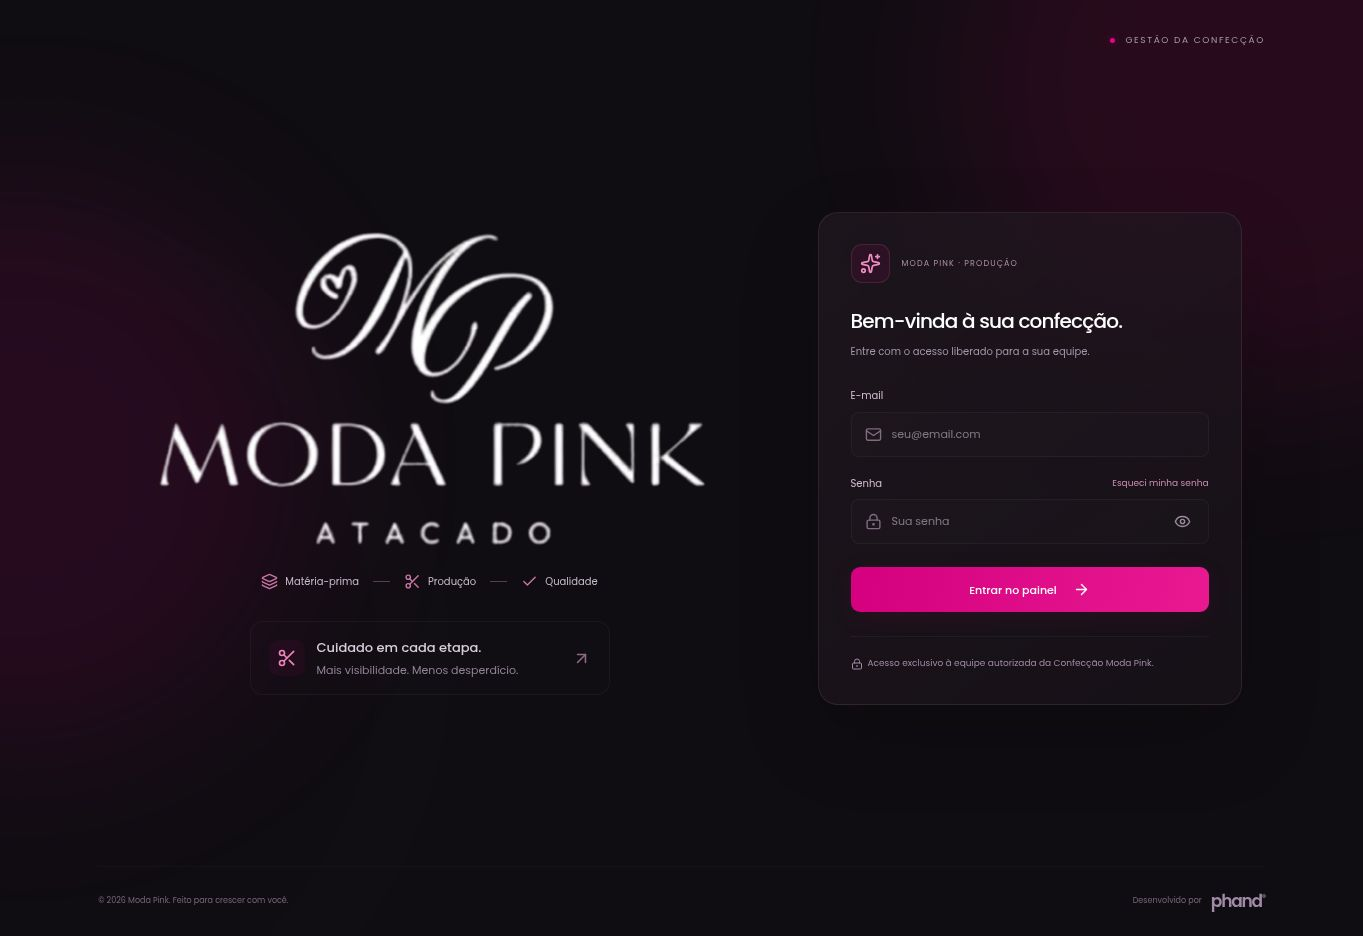
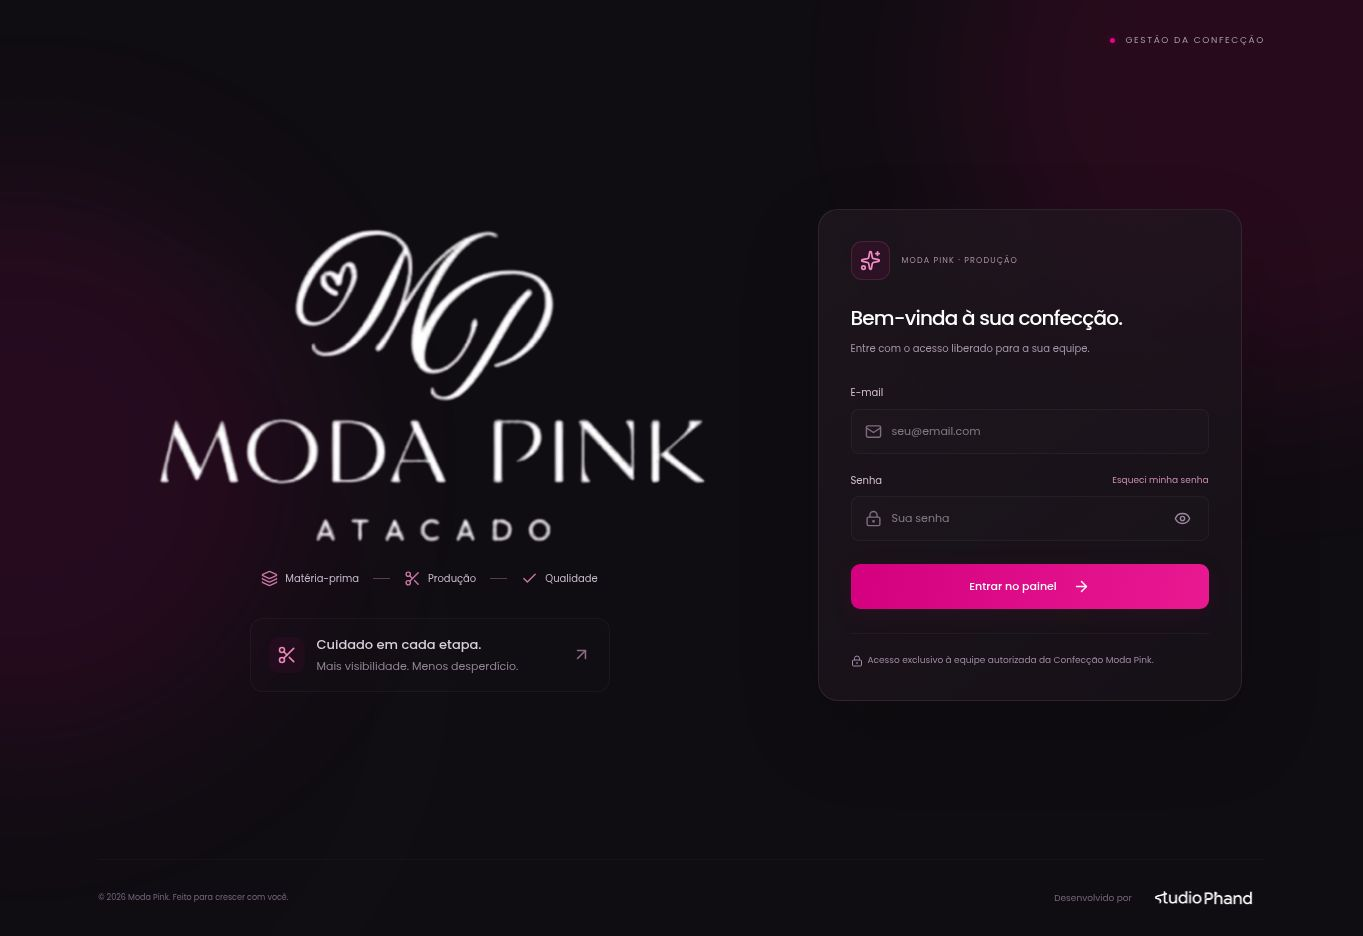
Registra conferência visual da assinatura Phand publicada

diff --git a/projects/confeccao/docs/arquitetura.md b/projects/confeccao/docs/arquitetura.md
@@ -98,3 +98,9 @@ A simulação contém uma cópia independente dos valores importados, sem sincro
 Validação: 64 testes de aplicação e seis suítes PostgreSQL locais passaram, incluindo casos de perda, rateio, taxas, margem, preço insuficiente, revenda, entradas brasileiras, CRUD, replay, conflito de revisão, exclusão, permissões e validação de payload. TypeScript e build passaram. No banco real, um teste transacional criou/listou/repetiu/excluiu uma simulação sintética e foi totalmente revertido: zero simulações permanentes. As ACLs e RLS foram confirmadas. O advisor mantém apenas os INFO esperados das tabelas privadas e o aviso pré-existente de proteção contra senhas vazadas; nenhuma política de acesso direto foi aberta. O percurso visual com sessão real permanece pendente.
 
 Publicação da formação de preço: Vercel READY, código `c9841a2fe818e8fe8d182baa4fba91292f1944b4`, deployment `dpl_9RQQuGP88J3wD2GGvAurtVLCSNdB`. A rota respondeu HTTP 200 e, no navegador sem sessão, redirecionou corretamente ao login. Não houve entradas error/fatal nos logs consultados. O percurso autenticado da interface não foi executado neste navegador.
+
+## Assinatura visual Phand
+
+Os créditos existentes no login, definição de senha, painel e portal usam `AgencyCredit`, com link HTTPS do portfólio em nova aba e rel noopener/noreferrer. O PNG é uma cópia exata de `andressa295/phandportfolio/public/logophand.png` (blob `79d7b5cedee7f2036ade528268cca47b65fcd73c`), conferida contra o arquivo público do portfólio. A marca permanece rosa nos fundos claros; o componente usa filtro CSS branco nos fundos escuros. O desenho não foi refeito em fonte ou alterado. Os dois templates de e-mail usam o mesmo PNG rosa em URL absoluta da aplicação; ConfirmationURL permanece uma vez por template. Não houve alteração no banco, Auth, destinatários ou disparo de mensagens. O build com TypeScript passou.
+
+Publicação da assinatura: Vercel READY, código `8fb9ba4e50142c64d45de9d6405c6940067c8269`, deployment `dpl_Eg3dZTbq2CbrKMx4trkfLCfGvxH7`. A URL pública do PNG respondeu 200 e preservou o blob original. No navegador, o login carregou a imagem com brightness(0)/invert(1), e o portal claro carregou sem filtro; ambos apontam para o portfólio correto. A captura do login foi atualizada em `docs/login-marca.jpg`. Os dois modelos foram salvos no Supabase com confirmação de sucesso e link Phand na prévia. Não foram enviados novos e-mails reais.
